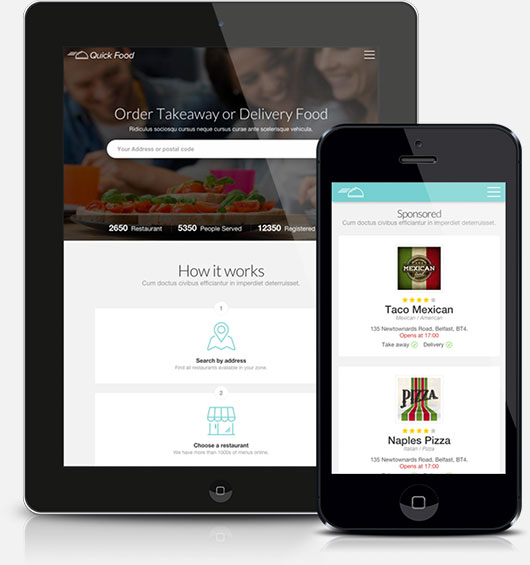
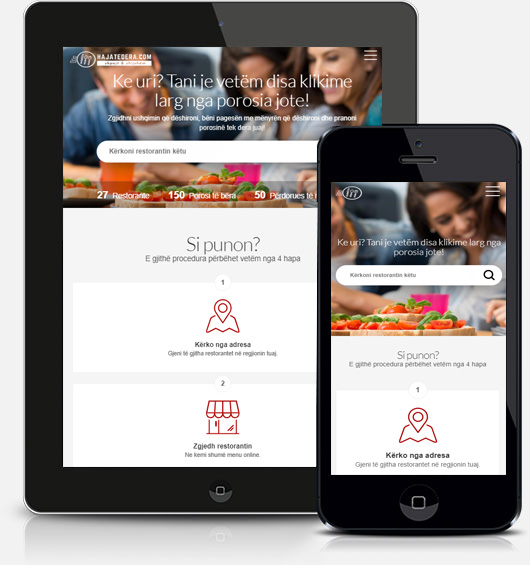
Other detail fixes

Changed region(s): [[0.1208, 0.0602, 0.966, 0.8425], [0.3321, 0.692, 0.5132, 0.8124]]

diff --git a/public/css/style.css b/public/css/style.css
@@ -300,7 +300,7 @@ header{
 	z-index:99999;
 }
 header.sticky{
-	background-color: #ac0000;
+	background-color: rgb(172, 0, 0, 0.7);
 	-webkit-box-shadow: 0px 2px 10px -2px rgba(0, 0, 0, 0.41);
 	-moz-box-shadow:0px 2px 10px -2px rgba(0, 0, 0, 0.41);
 	box-shadow:0px 2px 10px -2px rgba(0, 0, 0, 0.41);
@@ -657,7 +657,7 @@ video {
 }
 .high_light{
 	padding:60px 0 60px 0;
-	background:#85c99d;
+	background:#ac0000;
 	color:#fff;
 	font-size:16px;
 }

diff --git a/resources/views/submit_restaurant.blade.php b/resources/views/submit_restaurant.blade.php
@@ -8,7 +8,6 @@
     <meta name="keywords" content="pizza, delivery food, fast food, sushi, take away, chinese, italian food">
     <meta name="description" content="">
     <meta name="author" content="Ansonika">
-    <title>QuickFood - Quality delivery or take away food</title>
 
     <!-- Favicons-->
     <link rel="shortcut icon" href="/img/favicon.ico" type="image/x-icon">
@@ -56,7 +55,7 @@
         <div id="subheader">
             <div id="sub_content">
                 <h1>Punoni me ne</h1>
-                <p>Qui debitis meliore ex, tollit debitis conclusionemque te eos.</p>
+                <p>Akoma nuk keni një llogari tuajën? Çfarë po prisni ende?!</p>
                 <p></p>
             </div><!-- End sub_content -->
         </div><!-- End subheader -->
@@ -78,7 +77,7 @@
         <div class="main_title margin_mobile">
             <h2 class="nomargin_top">Rrit numrin e klientëve</h2>
             <p>
-                Cum doctus civibus efficiantur in imperdiet deterruisset.
+                Mjafton që të regjistroheni për t'u bërë pjesë e listës sonë të restoranteve. Do të përfitoni shumë!
             </p>
         </div>
         <div class="row">
@@ -87,7 +86,7 @@
                     <i class="icon_datareport"></i>
                     <h3><span>Rrit</span> shitjet</h3>
                     <p>
-                        Lorem ipsum dolor sit amet, vix erat audiam ei. Cum doctus civibus efficiantur in. Nec id tempor imperdiet deterruisset, doctus volumus explicari qui ex, appareat similique an usu.
+                        Hajatedera.com është mënyra më e lehtë për një klient për të porositur ushqimin online dhe një mundësi e shkëlqyer për restorantin, për të rritur të ardhurat dhe klientët.
                     </p>
                 </div>
             </div>
@@ -96,7 +95,7 @@
                     <i class="icon_chat_alt"></i>
                     <h3><span>24h</span> online ndihmë</h3>
                     <p>
-                        Lorem ipsum dolor sit amet, vix erat audiam ei. Cum doctus civibus efficiantur in. Nec id tempor imperdiet deterruisset, doctus volumus explicari qui ex, appareat similique an usu.
+                        Në vetëm pak hapa porositni ushqimin tuaj të preferuar në adresën që dëshironi. Stafi i hajatedera do të kujdeset për ju kur ju keni nevojë! Parashtroni pyetjet tuaja 24/7, stafi ynë do t’ju përgjigjet në vetëm pak minuta!
                     </p>
                 </div>
             </div>
@@ -107,7 +106,7 @@
                     <i class="icon_bag_alt"></i>
                     <h3><span>Sistem specifike për</span> transport</h3>
                     <p>
-                        Lorem ipsum dolor sit amet, vix erat audiam ei. Cum doctus civibus efficiantur in. Nec id tempor imperdiet deterruisset, doctus volumus explicari qui ex, appareat similique an usu.
+                        Hajatedera ju mundëson te ndiqni porosinë tuaj në çdo moment përmes sistemit tracking, ku ju mund të mësoni se për sa minuta do t’ju arrij porosia juaj në shtëpi!
                     </p>
                 </div>
             </div>
@@ -116,7 +115,7 @@
                     <i class="icon_mobile"></i>
                     <h3>Mbështetje<span> mobile</span></h3>
                     <p>
-                        Lorem ipsum dolor sit amet, vix erat audiam ei. Cum doctus civibus efficiantur in. Nec id tempor imperdiet deterruisset, doctus volumus explicari qui ex, appareat similique an usu.
+                        Nuk ka pasur kurrë një mënyrë më të lehtë për të bërë një porosi online. Me hajatedera.com ju kurrë nuk do të jeni të uritur. Shkarkoni aplikacionin hajatedera.com ne mobilin tuaj! 
                     </p>
                 </div>
             </div>
@@ -127,7 +126,7 @@
                     <i class="icon_wallet"></i>
                     <h3>Pagesë<span> kesh</span></h3>
                     <p>
-                        Lorem ipsum dolor sit amet, vix erat audiam ei. Cum doctus civibus efficiantur in. Nec id tempor imperdiet deterruisset, doctus volumus explicari qui ex, appareat similique an usu.
+                        Hajatedera.com ju mundëson qe porosinë ta paguani me para te gatshme ne momentin qe pranoni porosinë tek dera juaj.
                     </p>
                 </div>
             </div>
@@ -136,7 +135,7 @@
                     <i class="icon_creditcard"></i>
                     <h3>Pagesë me<span> kartelë</span></h3>
                     <p>
-                        Lorem ipsum dolor sit amet, vix erat audiam ei. Cum doctus civibus efficiantur in. Nec id tempor imperdiet deterruisset, doctus volumus explicari qui ex, appareat similique an usu.
+                        Ju mund te bëni pagesat edhe përmes kartelës bankare. Nëpërmjet sistemit 3D Secure pagesa juaj do të bëhet shpejtë, lehtë dhe totalisht e sigurt!
                     </p>
                 </div>
             </div>

diff --git a/resources/views/restaurant_profile.blade.php b/resources/views/restaurant_profile.blade.php
@@ -8,7 +8,6 @@
     <meta name="keywords" content="pizza, delivery food, fast food, sushi, take away, chinese, italian food">
     <meta name="description" content="">
     <meta name="author" content="Ansonika">
-    <title>QuickFood - Quality delivery or take away food</title>
 
     <!-- Favicons-->
     <link rel="shortcut icon" href="/img/favicon.ico" type="image/x-icon">
@@ -68,7 +67,7 @@
     <div id="subheader">
         <div id="sub_content">
             <div id="thumb"><img src="{{$restaurant->picture ? url("{$restaurant->picture}") : asset('img/default_pictures/restaurant-default.jpg')}}" ></div>
-            <div class="rating">(<small>{{$restaurant->restaurantReviews->count()}} reviews</small>)</div>
+            <div class="rating">(<small>{{$restaurant->restaurantReviews->count()}} vlerësim/e</small>)</div>
             <h1>{{$restaurant->name}}</h1>
             {{-- <div><em>Mexican / American</em></div> --}}
             <div><i class="icon_pin"></i>{{$restaurant->address}}{{-- <strong>Delivery charge:</strong> $10, free over $15. --}}</div>
@@ -151,7 +150,7 @@
         </p>
         <div id="summary_review">
             <div id="general_rating">
-                {{$restaurant->restaurantReviews->count()}} Reviews
+                {{$restaurant->restaurantReviews->count()}} Vlerësim/e
                 <div class="rating">
                 </div>
             </div>
@@ -167,7 +166,7 @@
             <div class="row" id="rating_summary">
                 <div class="col-md-12">
                     <ul>
-                        <li>Kualiteti përgjithshëm i  Restorantit
+                        <li>Kualiteti përgjithshëm i Restorantit
                             <div class="rating">
                                 <?php $r=round($restaurant->restaurantReviews->avg('rate')); ?>
                                 @for($i = 1; $i <= 5; $i++)

diff --git a/resources/views/admin.blade.php b/resources/views/admin.blade.php
@@ -9,7 +9,6 @@
 	<meta name="keywords" content="pizza, delivery food, fast food, sushi, take away, chinese, italian food">
 	<meta name="description" content="">
 	<meta name="author" content="Ansonika">
-	<title>QuickFood - Quality delivery or take away food</title>
 
 	<!-- Favicons-->
 	<link rel="shortcut icon" href="/img/favicon.ico" type="image/x-icon">
@@ -62,8 +61,8 @@
 	<section class="parallax-window" id="short" data-parallax="scroll" data-image-src="/img/sub_header_cart.jpg" data-natural-width="1400" data-natural-height="350">
 		<div id="subheader">
 			<div id="sub_content">
-				<h1>Admin section</h1>
-				<p>Qui debitis meliore ex, tollit debitis conclusionemque te eos.</p>
+				<h1>Seksioni i Administratorit</h1>
+				<p>Këtu mund të ndryshoni informacionet rreth restorantit tuaj, fjalëkalimin, emailin, dhe mund të menaxhoni ushqimet e restorantit.</p>
 				<p></p>
 			</div><!-- End sub_content -->
 		</div><!-- End subheader -->
@@ -237,7 +236,7 @@
 											<img height="100" width="100" src="{{asset('img/default_pictures/food-default.png')}}" alt="" class="img-circle">
 										</div>
 										<div class="form-group">
-											<label>Shkarko logon e ushqimit</label>
+											<label>Shkarko një fotografi të ushqimit</label>
 											<div id="logo_picture">
 												<input name="picture" type="file">
 											</div>
@@ -348,7 +347,7 @@
 											<img height="100" width="100" src="{{$food->picture ? url("{$food->picture}") : asset('img/default_pictures/food-default.png')}}" alt="" class="img-circle">
 										</div>
 										<div class="form-group">
-											<label>Ndrysho logon e ushqimit</label>
+											<label>Ndrysho fotografinë e ushqimit</label>
 											<div id="logo_picture">
 												<input name="picture" type="file">
 											</div>

diff --git a/resources/views/layouts/header.blade.php b/resources/views/layouts/header.blade.php
@@ -1,18 +1,18 @@
-
+<title>Haja Te Dera - Shpejt & Shijshëm</title>
 <header>
     <div class="container-fluid">
         <div class="row">
             <div class="col--md-4 col-sm-4 col-xs-4">
-                <a href="index.html" id="logo">
-                    <img src="/img/logo.png" width="190" height="23" alt="" data-retina="true" class="hidden-xs">
-                    <img src="/img/logo_mobile.png" width="59" height="23" alt="" data-retina="true" class="hidden-lg hidden-md hidden-sm">
+                <a href="/" id="logo">
+                    <img src="/img/logo.png" width="200" height="40" alt="" style="margin-bottom: 10px" data-retina="true" class="hidden-xs">
+                    <img src="/img/logo_mobile.png" width="55" height="30" alt="" data-retina="true" class="hidden-lg hidden-md hidden-sm">
                 </a>
             </div>
             <nav class="col--md-8 col-sm-8 col-xs-8">
                 <a class="cmn-toggle-switch cmn-toggle-switch__htx open_close" href="javascript:void(0);"><span>Menu mobile</span></a>
-                <div class="main-menu">
+                <div class="main-menu" style="margin-top: 5px">
                     <div id="header_menu">
-                        <img src="/img/logo.png" width="190" height="23" alt="" data-retina="true">
+                        <img src="/img/logo.png" width="200" height="40" alt="" data-retina="true">
                     </div>
                     <a href="#" class="open_close" id="close_in"><i class="icon_close"></i></a>
                     <ul>

diff --git a/resources/views/restaurant_menu.blade.php b/resources/views/restaurant_menu.blade.php
@@ -8,7 +8,6 @@
     <meta name="keywords" content="pizza, delivery food, fast food, sushi, take away, chinese, italian food">
     <meta name="description" content="">
     <meta name="author" content="Ansonika">
-    <title>QuickFood - Quality delivery or take away food</title>
 
     <!-- Favicons-->
     <link rel="shortcut icon" href="/img/favicon.ico" type="image/x-icon">
@@ -57,7 +56,7 @@
 <section class="parallax-window" data-parallax="scroll" data-image-src="/img/sub_header_1.jpg" data-natural-width="1400" data-natural-height="470">
     <div id="subheader">
         <div id="sub_content">
-            <div id="thumb"><img src="{{$restaurant->picture ? url("{$restaurant->picture}") : asset('img/default_pictures/restaurant-default.png')}}" alt=""></div>
+            <div id="thumb"><img src="{{$restaurant->picture ? url("{$restaurant->picture}") : asset('img/default_pictures/restaurant-default.jpg')}}" alt=""></div>
             <div class="rating">(<small><a href="/restaurant/{{$restaurant->id}}/profile">{{$restaurant->restaurantReviews->count()}} reviews</a></small>)</div>
             <h1><a href="{{route('restaurant-profile', ['id' => $restaurant->id])}}">{{$restaurant->name}}</a></h1>
             {{-- <div><em>Mexican / American</em></div> --}}

diff --git a/resources/views/about.blade.php b/resources/views/about.blade.php
@@ -8,7 +8,6 @@
 	<meta name="keywords" content="pizza, delivery food, fast food, sushi, take away, chinese, italian food">
 	<meta name="description" content="">
 	<meta name="author" content="Ansonika">
-	<title>QuickFood - Quality delivery or take away food</title>
 
 	<!-- Favicons-->
 	<link rel="shortcut icon" href="img/favicon.ico" type="image/x-icon">
@@ -109,12 +108,9 @@
 			</div>
 			<div class="col-md-6 nopadding">
 				<div class="features-content">
-					<h3>"Ex vero mediocrem"</h3>
+					<h3>Kush mund ta përdorë Hajatedera.com?</h3>
 					<p>
-						Lorem ipsum dolor sit amet, consectetur adipiscing elit. Sed a lorem quis neque interdum consequat ut sed sem. Duis quis tempor nunc. Interdum et malesuada fames ac ante ipsum primis in faucibus.
-					</p>
-					<p>
-						Per ea erant aeque corpora, an agam tibique nec. At recusabo expetendis vim. Tractatos principes mel te, dolor solet viderer usu ad.
+						Hajatedera është mënyra më e lehtë për një klient për të porositur ushqimin online dhe një mundësi e shkëlqyer për restorantin, për të rritur të ardhurat dhe klientët.
 					</p>
 				</div>
 			</div>

diff --git a/resources/views/order-review.blade.php b/resources/views/order-review.blade.php
@@ -8,7 +8,6 @@
     <meta name="keywords" content="pizza, delivery food, fast food, sushi, take away, chinese, italian food">
     <meta name="description" content="">
     <meta name="author" content="Ansonika">
-    <title>QuickFood - Quality delivery or take away food</title>
 
     <!-- Favicons-->
     <link rel="shortcut icon" href="/img/favicon.ico" type="image/x-icon">
@@ -103,7 +102,7 @@
                     <i class="icon_check_alt2"></i>
                     <h3>Faleminderit!</h3>
                     <p>
-                        Porosia juaj është konfirmuar me sukses dhe është dërguar në restorant, mund të kontrolloni statusin e porosisë nga menyja e 'Shiqo Porositë'., 
+                        Porosia juaj është konfirmuar me sukses dhe është dërguar në restorant, gjendjen e porosisë mund të kontrolloni nga <a href="/orders">Menaxhimi i Porosive</a>. 
                     </p>
                 </div>
                 <h4>Përmbledhje</h4>

diff --git a/resources/views/layouts/footer.blade.php b/resources/views/layouts/footer.blade.php
@@ -11,7 +11,7 @@
                 <h3>Rreth</h3>
                 <ul>
                     <li><a href="/about">Rreth nesh</a></li>
-                    <li><a href="/contacts">Na Kontaktoni</a></li>
+                    <li><a href="/contacts">Na kontaktoni</a></li>
                     <li><a href="#">Termat dhe kushtet</a></li>
                 </ul>
             </div>
@@ -145,7 +145,7 @@
             <div class="checkbox-holder text-left">
               <div class="checkbox">
                  <input type="checkbox" value="accept_2" id="check_2" name="check_2" />
-                 <label for="check_2"><span>Unë e pranoj<strong>Termat &amp; Kushtet</strong></span></label>
+                 <label for="check_2"><span>Unë e pranoj<strong>&nbsp;Termat &amp; Kushtet</strong></span></label>
              </div>
          </div>
          <button type="submit" class="btn btn-submit">Regjistrohu</button>

diff --git a/resources/views/index.blade.php b/resources/views/index.blade.php
@@ -8,7 +8,7 @@
     <meta name="keywords" content="pizza, delivery food, fast food, sushi, take away, chinese, italian food">
     <meta name="description" content="">
     <meta name="author" content="Ansonika">
-    <title>QuickFood - Quality delivery or take away food</title>
+    
 
     <!-- Favicons-->
     <link rel="shortcut icon" href="img/favicon.ico" type="image/x-icon">
@@ -194,7 +194,7 @@
 
 <div class="high_light">
    <div class="container">
-    <h3>Zgjedh njërën nga {{$restaurants}} Restorantet të riregjistruara</h3>
+    <h3>Zgjedh njërën nga {{$restaurants}} Restorantet të regjistruara</h3>
     <p>Shijoni zgjedhjen tuaj të përgatitur me mjeshtëri...</p>
     <a href="/restaurants">Shih restorantët</a>
 </div><!-- End container -->

diff --git a/resources/views/order-details.blade.php b/resources/views/order-details.blade.php
@@ -8,7 +8,6 @@
     <meta name="keywords" content="pizza, delivery food, fast food, sushi, take away, chinese, italian food">
     <meta name="description" content="">
     <meta name="author" content="Ansonika">
-    <title>QuickFood - Quality delivery or take away food</title>
 
     <!-- Favicons-->
     <link rel="shortcut icon" href="/img/favicon.ico" type="image/x-icon">

diff --git a/resources/views/order-payment.blade.php b/resources/views/order-payment.blade.php
@@ -8,7 +8,6 @@
     <meta name="keywords" content="pizza, delivery food, fast food, sushi, take away, chinese, italian food">
     <meta name="description" content="">
     <meta name="author" content="Ansonika">
-    <title>QuickFood - Quality delivery or take away food</title>
 
     <!-- Favicons-->
     <link rel="shortcut icon" href="/img/favicon.ico" type="image/x-icon">
